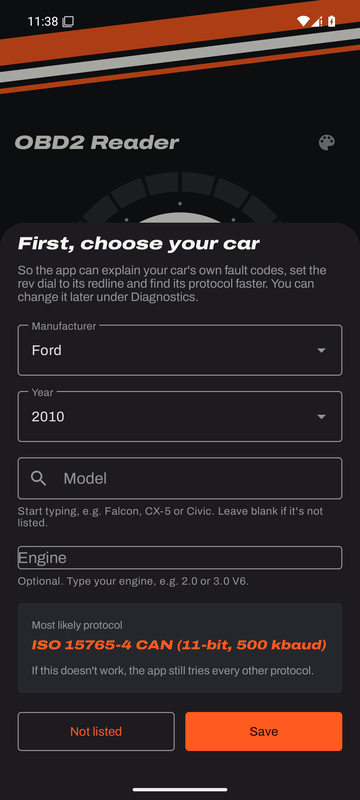
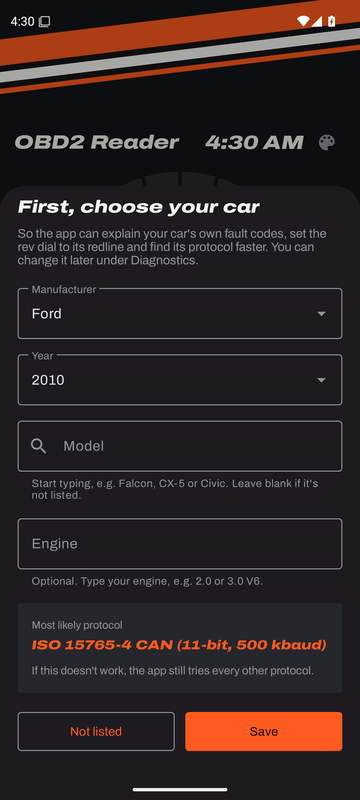
1.27.1: MIT licence, a shorter up-to-date README, fresh screenshots and demo
Also swaps a real VIN in the tests and install test for a sample one.

Claude-Session: https://claude.ai/code/session_01McjzTqeoTY42GN73YPdA2H

diff --git a/preview/index.html b/preview/index.html
@@ -3174,7 +3174,7 @@ setInterval(() => { $("noChargeBtn").hidden = $("ignBtn").hidden; if ($("ignBtn"
 
 /* ===== App updates (mirrors MainActivity.checkForUpdate and showChangesSince). The browser preview
    can't install an APK, so it is always on the latest release. ===== */
-const CHANGES = {"version": "1.27.0", "date": "3 November 2026", "text": "• Report a problem or suggest an improvement from the app. Two new rows under Diagnostics → Help open a short form on GitHub, with your app version and phone already filled in (and, for a problem, your car and adapter's name). Nothing is sent until you submit the form yourself, and your VIN, location and adapter log are never added to it."};
+const CHANGES = {"version": "1.27.1", "date": "3 November 2026", "text": "• OBD2 Reader is now open source under the MIT licence: you're free to use, change and share the code. The README has been rewritten to be shorter and up to date, with fresh screenshots."};
 (() => { const row = document.getElementById("updatesRow"), btn = document.getElementById("updatesCheck"); if (!row) return;
   btn.onclick = e => { e.stopPropagation(); toast("Checking for updates…"); setTimeout(() => toast(`You're on the latest version (${CHANGES.version}).`), 1200); };
   row.onclick = () => {

diff --git a/app/src/test/java/com/obdreader/app/obd/ElmParserTest.kt b/app/src/test/java/com/obdreader/app/obd/ElmParserTest.kt
@@ -132,11 +132,11 @@ class ElmParserTest {
         assertTrue(!VinDecoder.isValid("1HGCM82643A004352"))
         assertTrue(VinDecoder.isValid("JM0EP10A200123456")) // check digit optional outside North America
         assertTrue(!VinDecoder.isValid("JM0EP10A2O0123456"))
-        // Built for Australia in China: no check digit needed, and the X in position 9 is fine.
-        assertTrue(VinDecoder.isValid("LFACTZ5NX62000375"))
-        assertEquals("LFACTZ5NX62000375", VinDecoder.normalise(" lfactz5n x62000375 "))
-        assertEquals(null, VinDecoder.normalise("LFACTZ5NX6200037"))
-        assertEquals(null, VinDecoder.normalise("LFACTZ5NX6200O375"))
+        // Built outside North America (an L-prefixed sample): no check digit needed, and the X in position 9 is fine.
+        assertTrue(VinDecoder.isValid("LFASAMPLX00000001"))
+        assertEquals("LFASAMPLX00000001", VinDecoder.normalise(" lfasampl x00000001 "))
+        assertEquals(null, VinDecoder.normalise("LFASAMPLX0000000"))
+        assertEquals(null, VinDecoder.normalise("LFASAMPLX0000O001"))
     }
 
     @Test

diff --git a/app/src/test/java/com/obdreader/app/obd/ProtocolSearchTest.kt b/app/src/test/java/com/obdreader/app/obd/ProtocolSearchTest.kt
@@ -125,7 +125,7 @@ class EngineTest {
     @Test
     fun theRevDialFollowsTheCar() {
         fun rec(make: String, year: Int, model: String?, engine: String?) = VehicleCatalog.recommend(VehicleCatalog.Car(make, year, model, engine))
-        // George's Tribute: the 2.3 I4 revs to 6,500, so the dial ends at 7k, not 8k.
+        // A 2006 Tribute: the 2.3 I4 revs to 6,500, so the dial ends at 7k, not 8k.
         val tribute = rec("Mazda", 2006, "Tribute", "2.3 I4")
         assertEquals(6500, tribute.redline); assertTrue(tribute.redlineExact); assertEquals(7000, tribute.dialMax)
         assertEquals(7000, rec("Mazda", 2006, "Tribute", "2.3").dialMax)            // typed by hand

diff --git a/README.md b/README.md
@@ -1,214 +1,166 @@
 # OBD2 Reader
 
-An Android app that reads live engine data and trouble codes from a cheap ELM327 OBD2 adapter, over Bluetooth or Wi-Fi. It also has an Android Auto screen.
+A free Android app for cheap ELM327 OBD2 adapters. It shows live engine data, explains your trouble codes in plain English and scores your driving. It also works on Android Auto. No account, no ads, and it never changes anything in your car.
 
-**[Download the latest APK](https://github.com/CalmAussie/obd2-reader/releases/latest/download/OBD2Reader.apk)** · [All releases](https://github.com/CalmAussie/obd2-reader/releases) · [Changelog](CHANGELOG.md)
-
-## What it looks like
+**[Download the latest APK](https://github.com/CalmAussie/obd2-reader/releases/latest/download/OBD2Reader.apk)** · [Try the demo in your browser](https://raw.githack.com/CalmAussie/obd2-reader/main/preview/index.html) · [Changelog](CHANGELOG.md)
 
 <p align="center">
-  <img src="docs/demo.gif" width="300" alt="Animated demo: choosing the car first, the demo car connecting with start lights and a rev sweep, live readings gliding on the Dashboard, the driving score in its Everyday, Efficiency and Racing styles, the Race telemetry and Digital cockpit styles, the Graphs tab and trouble codes on the Diagnostics tab">
-</p>
-
-**[Try the interactive demo in your browser](https://raw.githack.com/CalmAussie/obd2-reader/main/preview/index.html)**: tap **Demo car**, switch styles with the palette button, and open **Android Auto** at the top to see the car screen. It's a web mock-up of the app, so nothing needs installing.
-
-The real app, version 1.4.2, running on Android 15 with the demo car:
-
-<p align="center">
-  <img src="docs/screen-choose-car.png" width="180" alt="First launch: choose your car">
-  <img src="docs/screen-dashboard.png" width="180" alt="Dashboard: the rev roundel, speed, coolant and fuel">
-  <img src="docs/screen-graphs.png" width="180" alt="Graphs: live charts of engine speed and road speed">
-  <img src="docs/screen-diagnostics.png" width="180" alt="Diagnostics: three trouble codes with a full explanation">
+  <img src="docs/demo.gif" width="300" alt="Animated demo: choosing the car, the demo car connecting, live readings on the Dashboard, switching between the Retro digital, Rally stage, Hairline, Race telemetry, Digital cockpit, Cyberpunk and British racing styles, the Graphs tab and trouble codes on the Diagnostics tab">
 </p>
 
 <p align="center">
-  <img src="docs/screen-android-auto.png" width="560" alt="Android Auto screen in the Asphalt style: engine speed in the rev roundel at the top centre, with speed, coolant, throttle, fuel and battery on angled decals">
+  <img src="docs/screen-dashboard.png" width="160" alt="Dashboard in the Asphalt style">
+  <img src="docs/screen-graphs.png" width="160" alt="Graphs: live charts">
+  <img src="docs/screen-diagnostics.png" width="160" alt="Diagnostics: trouble codes explained">
+  <img src="docs/screen-retro.png" width="160" alt="The Retro digital style">
+</p>
+
+<p align="center">
+  <img src="docs/screen-android-auto.png" width="520" alt="The Android Auto screen">
 </p>
 
 ## Install
-All you need is the APK. There's no Play Store listing, account, sign-in or other app to install, and it works offline.
 
-<img src="docs/download-qr.png" width="140" align="right" alt="QR code linking to the APK download">
+<img src="docs/download-qr.png" width="130" align="right" alt="QR code linking to the APK download">
 
-1. On your Android phone (Android 8 or newer), tap **[Download the latest APK](https://github.com/CalmAussie/obd2-reader/releases/latest/download/OBD2Reader.apk)**, or scan the QR code with the phone's camera.
-2. Open the downloaded file. If asked, allow your browser or file app to **install unknown apps**, then tap **Install**.
-3. If Google Play Protect warns about an unknown developer, tap **More details → Install anyway**. Every app from outside the Play Store gets this warning.
-4. Open OBD2 Reader and choose your car (or **Not listed**). Then tap **Demo car** to try it straight away, or plug in an adapter and tap **Connect**.
+You only need the APK. Nothing else to install, and it works offline. It runs on Android 8 or newer.
 
-**Updates:** the app checks GitHub for a new release once a day (and whenever you tap **Check for updates** under **Diagnostics → App updates**; tap the rest of that row to see what's changed since your version). When there is one, it shows what's new and, if you tap **Update**, downloads it and hands it to Android, which asks you to **Install**. The first time, Android asks you to allow OBD2 Reader to install apps. Your settings, drives and recordings are kept. Only the version check and the download go to GitHub. You can still install a newer APK over the old one by hand. **Samsung phones:** Auto Blocker (Settings › Security and privacy › Auto Blocker) blocks installs from anywhere but the Galaxy Store and Play Store, including the app's own updates. Turn it off to install or update, then turn it back on if you like.
+1. On your phone, tap **[Download the latest APK](https://github.com/CalmAussie/obd2-reader/releases/latest/download/OBD2Reader.apk)**, or scan the QR code.
+2. Open the file. If asked, allow **install unknown apps**, then tap **Install**.
+3. If Play Protect warns you, tap **More details → Install anyway**. Every app from outside the Play Store gets this warning.
 
-Every release is checked automatically: the published APK is downloaded, installed on fresh Android 10, 13, 15 and 16 phones (emulators), plus Android 17 as an experimental check (its emulator doesn't run reliably on GitHub yet), opened, run with the demo car and checked for crashes.
+**Updates:** the app checks for a new version once a day and installs it when you tap **Update**. Your settings and drives are kept.
+
+**Samsung phones:** Auto Blocker (**Settings → Security and privacy**) stops installs from outside the Galaxy Store and Play Store. Turn it off to install or update, then turn it back on if you like.
 
 ## Use it
+
 1. Plug the adapter into the OBD2 port (under the dashboard, driver's side) and turn the ignition on.
-2. Open the app, tap **Connect** and choose how your adapter connects:
-   - **Bluetooth:** the app lists paired and nearby adapters by name, whichever kind of Bluetooth they use (Classic or LE). If yours needs pairing, Android asks for the PIN, usually `1234` or `0000`.
-   - **Wi-Fi:** join the adapter's Wi-Fi network first. The usual address is `192.168.0.10`, port `35000`.
-3. No adapter? Tap **Demo car** to try the app with a simulated car.
-4. After the first time, the app reconnects by itself whenever you open it or turn the ignition on.
+2. Open the app and choose your car.
+3. Tap **Connect** and pick your adapter.
+   - **Bluetooth:** listed by name. If asked for a PIN, try `1234` or `0000`.
+   - **Wi-Fi:** join the adapter's network first (usually `192.168.0.10`, port `35000`).
+4. No adapter? Tap **Demo car**.
 
-Help, including Android Auto setup, is also inside the app under **Diagnostics → Help**.
+After the first time, it reconnects by itself. Help is also inside the app, under **Diagnostics → Help**.
 
-## What it does
-- **Live data:** RPM, speed, coolant, fuel, throttle, engine load, intake air, manifold pressure, MAF, timing advance, ambient and oil temperature, and battery voltage. Readings past their limit turn red.
-- **Battery charging status:** beside the voltage, an estimate (marked est.) of whether the battery is charging, worked out from voltage and engine speed. Standard OBD2 has no battery-current (amps) reading.
-- **Top speed:** the highest speed of the current drive shows beside the speed, on the phone and in Android Auto.
-- **Swipe between tabs:** swipe sideways across the screen to move between the Dashboard, Graphs and Diagnostics.
-- **Drive history:** every drive's summary (no location), with your drive score's trend over the last 20 drives; open any drive to share its card.
-- **Battery with the ignition off:** the battery's voltage and rough charge while the car is off (from the adapter, without waking the car), and an optional overnight check for something draining the battery.
-- **Battery check at start-up:** connect before starting the engine and the app measures how far the battery dips while starting, and keeps a history so a weakening battery shows up early.
-- **Trip summary:** distance, driving and idle time, average and top speed, best 0–100 and scores when each drive ends (when you disconnect, or the ignition has been off for 3 minutes).
-- **Driving alerts:** sound, vibration and a notification (on Android Auto too) for a hot engine or oil, or a battery not charging, overcharging or low. Switch off under **Diagnostics → Alerts**.
-- **New codes while you drive:** the trouble codes are checked every 30 seconds while connected, and a code that appears mid-drive arrives as a quiet notification (no sound, vibration or pop-up, on the phone or in Android Auto) that opens Diagnostics. Codes already there when you connect don't notify.
-- **Performance timers:** 0–100 km/h, 80–120 km/h and the quarter mile (an estimate, worked out from speed), or 0–60 and 50–70 mph, with your best times.
-- **Video overlay and drive cards:** turn a recorded drive into an MP4 gauge overlay for your video editor ([how to use it](#video-overlay)), with the route's mini-map when the drive was recorded with it, or a drive into a picture card for Shorts, TikTok, Reels or Instagram, drawn in the style of your Dashboard layout, with one score (your Racing score from Race telemetry, otherwise your drive score: the average of Everyday and Efficiency) and the route's outline when the drive was recorded with it, shaded brighter where you drove faster. You see a preview of the card before it's shared.
-- **Home-screen widget:** live speed, coolant and battery while connected; otherwise the last battery reading, code check and drive, with a Connect or Disconnect button. Resize it to 4 × 2, 4 × 1, 2 × 2 or 2 × 1, or upright to 1 × 2, 1 × 4 or 2 × 4, and choose up to three live readings for it under **Diagnostics → Widget readings** (the first is the one 2 × 1 shows; RPM shows in thousands, like 3.2k). Near your engine's redline or your car's top speed (an approximate published figure), that reading lights up in your style's second colour. It's drawn in the style you've chosen in the app (the palette icon on the Dashboard), so changing the style changes the widget too; with the light style, Pit lane, it turns dark while your phone is in dark mode.
-- **Your app icon:** choose the icon's colour from eight colourways under **Diagnostics → App icon**.
-- **Your readouts, your units:** choose which readings fill the Dashboard's main readouts, and km/h or mph and °C or °F separately.
-- **N/A, never a guess:** a reading the car doesn't report, or stops answering, says N/A rather than a dash or an old number.
-- **Your car first:** the app asks for your car's make, year, model and engine (engines are listed for every petrol, diesel and hybrid model in the catalogue) when you first open it, so manufacturer-specific trouble codes are explained for your brand, the rev dial is scaled to your engine's redline (the model's highest if you don't choose an engine), and your car's protocol is tried first. It then lists any readings that may not work on a car like yours, and why.
-- **Driving score:** rates the current drive out of 100 for **Efficiency**, **Everyday** driving or **Racing** (track days), with a score for each habit and a tip for what would help most.
-- **Graphs and drive logs:** live charts for up to four readings at once, in the order you choose, fast multi-reading polling, and CSV recording of whole drives (tap **Record drive** on the Dashboard once connected; recordings are under **Graphs → Saved drives**) that you can share to Excel or Google Sheets, optionally with your route (latitude and longitude on every row) for mapping software. Drives are only recorded when you tap **Record drive**, your location is only ever saved inside a drive you record with its route, and recordings are never included in backups.
-- **Same route as last time:** record the same journey again (same start, finish and roads, the same way round) and the drive's summary compares it with last time: time, average speed, idling and top speed, plus your drive score when both recordings covered the whole drive. It's worked out from the two recordings each time; nothing new is saved.
-- **Your location stays on your phone:** it's never sent to the developer or anyone else. It's only stored locally, in the CSV file of a drive you record with its route, and the app only uses it to draw the outline of that route on your share card and to spot when you've recorded the same route before. Shared drive cards carry only the outline's shape: no map, street names or coordinates. Positions come from your phone's own location service (GPS, plus the phone's motion sensors on Android 12 and newer), the same one maps apps use, so your phone's own Location settings apply as usual. Where GPS drops out at the very start or end of a drive (an underground car park, say), the outline is carried on by the distance the car's speed readings show, in the direction it was heading; it's an estimate, and the app has no maps.
-- **Trouble codes, explained:** reads stored and pending codes from the engine (and, on many cars, the automatic transmission). About 2,860 standard (generic) codes are explained: what it means, how urgent it is, symptoms, common causes and what to check. Manufacturer-specific codes say where to look them up for your make, except a few Ford and Lincoln codes, which use Ford's own definitions for the model years Ford's documents cover. [Which cars get which codes](docs/CODE-SUPPORT.md) lists every model in the car list. Save the lot as a report to your phone, or share it with your mechanic. When a code is stored, the car's **freeze frame** (the engine's readings at that moment) is shown with it and included in the report.
-- **Deeper checks (read-only):** under Diagnostics, **Readiness monitors** shows which of the engine computer's emission checks have finished (handy before an inspection) and its software version; **Self-test results** shows the measurements behind those checks, with their limits; **Codes from other modules** reads codes from the ABS, airbags, transmission, power steering, cluster and other modules, at the addresses your make uses, and can search every address for the rest; **Enhanced diagnostics** shows live readings your maker added beyond OBD2 where they're known (for example Ford transmission temperature and oil life; community-sourced, and only the ones your car answers) and every module's part numbers, software versions and stored VIN; **Custom readings** lets you add a reading by its request and formula. These need a CAN car (most from 2008, many earlier), except readiness and custom readings.
-- **Read-only:** the app never clears codes, turns off the check-engine light or changes anything in the car. Every command is checked before it's sent, and anything that isn't a read is blocked.
-- **Picture-in-picture (optional):** turn on **Picture-in-picture** under Reconnect automatically, and while connected, leaving the app keeps your widget readings in a small floating window over other apps; tap it for Disconnect.
-- **Reconnects by itself:** picks the adapter back up when you open the app, start Android Auto or turn the ignition back on.
-- **Readable adapter log:** every message to and from the adapter is explained in plain English (for example "Engine RPM: 3,176 rpm" under the raw reply), with the latest trouble codes and their definitions pinned at the top. Share it as a text file when troubleshooting.
-- **Vehicle ID:** reads the VIN and shows the make and model year. If the car's VIN doesn't match your VIN plate, enter the right one (kept on your phone only).
-- **Finds the right protocol:** tries every OBD2 protocol automatically. If your car won't connect, choose it under **Diagnostics → Your car** (69 makes from 2000 on) so the app tries that car's usual protocol first.
-- **Background connection:** keeps working with the screen off, with a notification showing live RPM, speed and coolant.
+## Features
 
-## Compatibility
+**On the road**
+- **Live data:** speed, revs, coolant, fuel, throttle, battery and more, gliding smoothly. Readings past their limit turn red.
+- **13 styles:** from racing liveries to an 80s digital dash. Every style works in landscape too.
+- **Android Auto:** your readings and trouble codes on the car's screen, drawn in your style.
+- **Picture-in-picture (optional):** keep your readings in a small window over other apps.
+- **Home-screen widget:** live readings while connected, the last drive and battery reading when not.
+- **Alerts:** a hot engine, a battery not charging, or a new trouble code mid-drive. New codes notify quietly.
 
-**Phones**
-| | |
-|---|---|
-| Android | 8.0 (Oreo) or newer |
-| Android Auto | Any car or head unit with Android Auto, wired or wireless, using the phone's Android Auto app |
-| iPhone | Not supported (Android only) |
+**After the drive**
+- **Driving score:** out of 100 for Efficiency, Everyday or Racing, with a tip on what would help most.
+- **Trip summary and history:** distance, times, top speed and your score's trend.
+- **Same route as last time:** drive a recorded route again and see how you compare.
+- **Record drives:** save them as CSV files for Excel or Google Sheets.
+- **Video overlay:** turn a recorded drive into a gauge video for your dash-cam footage ([how](#video-overlay)).
+- **Drive cards:** a picture of your drive for Shorts, TikTok, Reels or Instagram.
+- **Performance timers:** 0–100 km/h, 80–120 km/h and the quarter mile (or 0–60 mph and 50–70 mph).
 
-**Adapters**
-| Type | Works with | Notes |
-|---|---|---|
-| Bluetooth Classic | ELM327 v1.4 and newer, and ELM327-compatible clones and STN-based adapters | Listed under Bluetooth; the app pairs it if needed |
-| Bluetooth LE | "iPhone-compatible" ELM327 adapters, for example the Veepeak OBDCheck BLE+ | Listed under Bluetooth; no pairing needed |
-| Wi-Fi | ELM327 Wi-Fi adapters | Default address `192.168.0.10`, port `35000`, changeable in the app |
-| Maker-locked | ThinkCar ThinkDiag, BlueDriver and similar adapters made for their maker's own app | They work only if they answer like an ELM327. If not, the app tells you it's a maker-locked adapter |
-| Not supported | USB adapters | |
-
-**OBD2 protocols** (all nine an ELM327 supports, tried automatically)
-| Protocol | Typical cars |
-|---|---|
-| ISO 15765-4 CAN (11-bit and 29-bit, 500 and 250 kbaud) | Almost every car from 2008 on |
-| SAE J1850 PWM | 2000s Fords and Ford-based Mazdas |
-| SAE J1850 VPW | Pre-2008 GM, Chrysler, Dodge and Jeep |
-| ISO 9141-2 | 2000s Asian and European cars, including many Hondas, Mazdas and Toyotas |
-| ISO 14230-4 KWP2000 (fast and 5-baud init) | 2000s Asian and European cars |
-
-Many cheap ELM327 clones can't speak J1850 PWM or VPW. If you have a 2000s Ford or pre-2008 GM, Chrysler, Dodge or Jeep, use a genuine ELM327 or STN-based adapter.
-
-**Cars**
-| | |
-|---|---|
-| Australia | Petrol cars from about 2006, diesels from about 2007 (ADR 79). Many earlier imports also work |
-| United States | 1996 on |
-| Europe (EOBD) | Petrol from 2001, diesel from 2004 |
-| Car catalogue | 69 makes from 2000 on, to help the app pick the right protocol: Japanese, American, European and Australian brands |
-| Electric cars | Often limited or no standard engine readings. Teslas have no standard OBD2 port |
-| Japanese-market imports | Some older ones use Japan's own standard and may not connect |
-
-**What can be read:** standard (generic) OBD2 data: live engine readings, emissions-related trouble codes from the engine and, on many cars, the automatic transmission (about 2,860 generic P0, P2, P34, U0 and U3 codes are explained; the rest are named by system; manufacturer-specific codes are identified but, apart from a few Ford and Lincoln codes, not explained), and the VIN. When a car leaves out a reading, a close standard one is used where there is one, and labelled. **Diagnostics → Scan what your car reports** lists everything your car reports. **Diagnostics → Codes from other modules** reads codes from other modules such as ABS and airbags on CAN cars, at your make's own module addresses, and **Search every address** finds the rest; clearing them, and service resets, need the maker's own tools or a scanner made for your make.
-
-## Video overlay
-Turn a recorded drive into a video of your gauges (shift lights, rev arc, rpm, speed, top speed, throttle and a 30-second trace) to lay over dash-cam, GoPro or phone footage in a video editor.
-
-**Record the drive**
-1. Start your camera recording first.
-2. In OBD2 Reader, connect to the car and tap **Record drive** on the Dashboard (it appears once you're connected). The overlay's clock starts at 0:00 the moment you tap it, so film the phone as you tap (or say "now") to make lining up easy later.
-3. Drive, then tap **Stop recording**.
-
-**Make the video**
-1. On the **Graphs** tab, tap **Saved drives**, choose the drive, then **Make a video overlay**.
-2. Choose a background:
-   - **Green screen:** remove it in your editor with chroma key.
-   - **Black:** use your editor's **Screen** blend mode to drop the black.
-3. Choose a size: **1080p** (sharper) or **720p** (quicker to make). Then tap **Make video**.
-4. Keep the app open while it works; it shows the progress and roughly how long is left.
-5. The video is saved to **Movies › OBD2 Reader** on Android 10 and newer, where your editor can find it. On older phones, tap **Share** to send it to your editor, Drive or Files.
-
-**In your editor**
-1. Put your camera footage on the main track and the overlay on the track above it.
-2. Remove the background: chroma key on green (for example CapCut's **Chroma key**, Premiere Pro's **Ultra Key** or DaVinci Resolve's **3D Keyer**), or set the overlay's blend mode to **Screen** for black.
-3. Line the overlay up with your footage: slide it until its 0:00 sits on the moment you tapped **Record drive**.
-
-The overlay is 30 frames a second, 16:9, with the gauges along the bottom, so it fits over landscape footage. It uses the colours of the style you've chosen, and your units (km/h or mph).
+**Diagnostics**
+- **Trouble codes explained:** about 2,860 codes, with what they mean, how urgent they are and what to check.
+- **Freeze frame:** the engine's readings at the moment a code was stored.
+- **Code report:** save or share all your codes with your mechanic.
+- **Battery checks:** how far the battery dips when starting, and an optional overnight drain check.
+- **Deeper checks:** readiness monitors, self-test results, and codes from ABS, airbags and other modules (on CAN cars).
+- **VIN:** reads your car's VIN. You can enter the one on your plate if they differ.
 
 ## Styles
-Tap the palette icon on the Dashboard to choose a style. Your choice is saved. Every style also works in landscape: turn your phone sideways and the Dashboard puts the main dial on the left and the other readouts, Connect and status on the right. The first seven are colourways of the livery dashboard; the last six each have a dashboard layout of their own.
+
+Tap the palette button on the Dashboard. The first seven are colourways; the last six have layouts of their own.
 
 | Style | Look |
 |---|---|
-| Asphalt (default) | Orange and white livery stripes on dark grey |
+| Asphalt (default) | Orange and white stripes on dark grey |
 | Endurance | Night-race navy and yellow |
 | Kerb | Red and white kerb stripes |
-| Pit lane | A light style in black and red, for sunlight |
+| Pit lane | Light, in black and red. Best in sunlight |
 | Drift | Hot pink and teal |
-| Apex | Volt yellow on carbon black, sharply raked |
-| British racing | Cream and gold on British racing green |
-| Race telemetry | A data-logger screen: shift lights, big numbers and a live 30-second trace of engine speed, road speed and throttle |
-| Digital cockpit | One big speed in a glowing ring, on layered glass |
-| Cyberpunk | A neon heads-up display: a climbing rev bar, split-colour speed digits and glowing readouts |
-| Retro digital | An 80s digital dash in glowing teal: a stepped bar-graph rev counter, big glowing digits over their unlit "88", and segment-bar readouts |
-| Rally stage | Paper white, black and safety orange, like a co-driver's board: engine speed huge with the redline marked, chunky blocks and a strip of readings. Easy to read in sun |
-| Hairline | Fine lines on black, like a watch face: a hairline rev dial round one big, thin speed, and the readings as a quiet list |
+| Apex | Volt yellow on carbon black |
+| British racing | Cream and gold on racing green |
+| Race telemetry | Shift lights, big numbers and live traces |
+| Digital cockpit | One big speed in a glowing ring |
+| Cyberpunk | A neon heads-up display |
+| Retro digital | An 80s digital dash in glowing teal |
+| Rally stage | Paper white, black and orange. Easy to read in sun |
+| Hairline | Fine lines on black, like a watch face |
+
+<p align="center">
+  <img src="docs/screen-retro.png" width="160" alt="Retro digital">
+  <img src="docs/screen-rally.png" width="160" alt="Rally stage">
+  <img src="docs/screen-hairline.png" width="160" alt="Hairline">
+</p>
+
+## Compatibility
+
+**Adapters**
+| Type | Works? |
+|---|---|
+| Bluetooth ELM327 (v1.4 or newer, clones, STN-based) | Yes |
+| Bluetooth LE ("iPhone-compatible", e.g. Veepeak OBDCheck BLE+) | Yes |
+| Wi-Fi ELM327 | Yes |
+| Maker-locked (ThinkDiag, BlueDriver and similar) | Only if they answer like an ELM327 |
+| USB | No |
+
+**Cars**
+| Where | From |
+|---|---|
+| Australia | Petrol about 2006, diesel about 2007 |
+| United States | 1996 |
+| Europe | Petrol 2001, diesel 2004 |
+
+The app tries all nine OBD2 protocols for you. Many cheap clones can't talk to 2000s Fords or pre-2008 GM, Chrysler, Dodge or Jeep cars; use a genuine ELM327 or STN adapter for those. Electric cars give few or no standard readings. iPhones aren't supported.
+
+Cars only report some readings. Anything yours doesn't report shows **N/A**, never a guess. [Which cars get which codes](docs/CODE-SUPPORT.md) lists every model.
 
 ## Android Auto
-The car screen shows live RPM, speed, coolant, throttle, fuel and battery, refreshing about five times a second with each number gliding to the next reading, and lists trouble codes. Its tiles are drawn with your style's own dashboard pieces (the roundel and decals on the liveries, shift lights across the top and traces on Race telemetry, the speed ring on Digital cockpit, the heads-up display on Cyberpunk, the digital dash on Retro digital, the rev board on Rally stage, the watch-face dial on Hairline), and trouble codes show on your style's plates. Android Auto still sets the background, the grid and the names under each tile.
 
-Android Auto only shows Play Store apps until you allow others. On your phone:
+Android Auto only shows Play Store apps until you allow others:
+
 1. Open Android Auto's settings (search "Android Auto" in Settings).
-2. Scroll to the bottom and tap **Version** about 10 times, then confirm to turn on developer mode.
-3. Tap the three-dot menu, then **Developer settings**, and turn on **Unknown sources**.
-4. Reconnect to your car. OBD2 Reader appears in Android Auto's app list.
+2. Tap **Version** about 10 times to turn on developer mode.
+3. Open the three-dot menu → **Developer settings** → turn on **Unknown sources**.
+4. Reconnect to your car. OBD2 Reader is now in the app list.
 
-## Good to know
-- **Open, minimised and closed:** while the app is open on screen, your phone doesn't lock. Minimised (Home, or Back from the Dashboard), it keeps running: the connection stays up and a drive you're recording keeps recording. Swipe it away from Recents to close it: it saves any recording, disconnects and stops, unless Android Auto is showing it on the car screen.
-- **Not every reading on every car:** cars only answer the readings they support, so some readings say **N/A**. **Diagnostics → Scan what your car reports** shows what your car supports.
-- **Finding adapters on Android 11 and older** needs Location turned on while searching (an Android rule).
+## Video overlay
+
+1. Start your camera, then tap **Record drive** in the app. The overlay's 0:00 is the moment you tap.
+2. After the drive, go to **Graphs → Saved drives**, choose it and tap **Make a video overlay**.
+3. Choose a green or black background, and 1080p or 720p.
+4. In your editor, put the overlay above your footage. Key out the green (or use **Screen** blend for black) and line up 0:00.
+
+Videos are saved to **Movies → OBD2 Reader**.
+
+## Privacy and safety
+
+- **Read-only:** the app never clears codes or changes anything in your car. Anything that isn't a read is blocked.
+- **No account, no tracking:** nothing is sent to the developer. The only internet use is the update check, from GitHub.
+- **Your location stays on your phone:** it's only saved inside a drive you choose to record with its route.
 
 ## Feedback
-Found a problem or have an idea? In the app, **Diagnostics → Report a problem** or **Suggest an improvement** opens a short form here on GitHub with your app version and phone already filled in. You can also go straight to the forms: [report a problem](https://github.com/CalmAussie/obd2-reader/issues/new?template=bug_report.yml) or [suggest an improvement](https://github.com/CalmAussie/obd2-reader/issues/new?template=feature_request.yml). You need a free GitHub account to submit. Please leave out your VIN, number plate and anything else personal.
+
+Found a problem or have an idea? Use **Diagnostics → Report a problem** or **Suggest an improvement** in the app, or go straight to the forms: [report a problem](https://github.com/CalmAussie/obd2-reader/issues/new?template=bug_report.yml) · [suggest an improvement](https://github.com/CalmAussie/obd2-reader/issues/new?template=feature_request.yml). You need a free GitHub account. Please leave out your VIN and number plate.
 
 ## For developers
 
-**Building:** every push to `main` runs [`.github/workflows/build.yml`](.github/workflows/build.yml). It runs the unit tests, builds a signed APK and publishes it as a GitHub release. Pushes that only change Markdown files don't build a new release. To build locally, open the project in Android Studio (JDK 17) or run `gradle assembleRelease testDebugUnitTest` with Gradle 8.7 and the Android SDK.
+- **Build:** every push to `main` runs the unit tests, builds a signed APK and publishes a release. To build locally, use Android Studio (JDK 17) or `gradle assembleRelease` with Gradle 8.7.
+- **Release:** bump `obdVersion` in `gradle.properties` and add a [`CHANGELOG.md`](CHANGELOG.md) entry, which becomes the release notes.
+- **Install test:** each release is installed on Android 10, 13, 15 and 16 emulators (17 experimental), run with the demo car and checked for crashes.
+- **Preview:** [`preview/index.html`](preview/index.html) is a web mock-up of the app. Check changes in the real app too.
+- **Signing:** the key lives in repository secrets (`OBD_KEYSTORE_BASE64`, `OBD_KEYSTORE_PASSWORD`, `OBD_KEY_ALIAS`, `OBD_KEY_PASSWORD`). Never commit a keystore.
 
-**Preview:** [`preview/index.html`](preview/index.html) is an interactive mock-up of the app, with a demo car, every style, the Graphs and Diagnostics tabs and the Android Auto screen. Open it in a browser. It mirrors the app's layouts and logic but is a separate web page, so check changes in the app itself too.
+Code lives under `app/src/main/java/com/obdreader/app/`: `obd/` (adapters, parsing, codes, car data), `session/` (the shared connection, recording, alerts), `ui/` (styles and dashboard views), `car/` (Android Auto) and `MainActivity.kt` (the three tabs).
 
-**Install test:** [`.github/workflows/install-test.yml`](.github/workflows/install-test.yml) runs after every release. It installs the published APK on emulators (Android 10, 13, 15 and 16, plus 17 as an experimental job that doesn't fail a release), starts the demo car, visits every tab and fails on any crash. Screenshots and results are pushed to the `install-test-reports` branch.
+## Licence
 
-**QA:** push to the `qa` branch to run Android Lint, the unit tests and a build with compiler warnings, without publishing a release ([`.github/workflows/qa.yml`](.github/workflows/qa.yml)). The reports are committed back to `qa-reports/` on that branch.
+OBD2 Reader is open source under the [MIT licence](LICENSE).
 
-**Releasing:** bump `obdVersion` in `gradle.properties` and add an entry at the top of [`CHANGELOG.md`](CHANGELOG.md). The release notes are taken from that entry.
-
-**Signing:** updates only install over an older version when both are signed with the same key. The key lives in four repository secrets: `OBD_KEYSTORE_BASE64`, `OBD_KEYSTORE_PASSWORD`, `OBD_KEY_ALIAS` and `OBD_KEY_PASSWORD`. For local release builds, put the same values in an untracked `keystore.properties` file (`storeFile`, `storePassword`, `keyAlias`, `keyPassword`). Never commit the keystore.
-
-**Code layout** (under `app/src/main/java/com/obdreader/app/`):
-
-| Folder | What's in it |
-|---|---|
-| `obd/` | Adapter connections (Bluetooth, BLE, Wi-Fi, demo), the ELM327 client and parser, PIDs, protocols, trouble-code explanations, adapter-log translations, reconnect timing, the car catalogue and VIN decoder, plus the logic for trips, alerts, timers, units and car coverage |
-| `session/` | The shared connection used by the phone and the car, the background service, alerts, graph history, drive recording, the video overlay encoder and exports |
-| `ui/` | Styles and the custom views for each dashboard layout |
-| `car/` | The Android Auto screens |
-| `MainActivity.kt` | The Dashboard, Graphs and Diagnostics tabs, permissions and pickers |
-
-## Licences
-The app uses the [Archivo](https://fonts.google.com/specimen/Archivo) typeface under the SIL Open Font License ([`licenses/Archivo-OFL.txt`](licenses/Archivo-OFL.txt)).
-
-The widget's approximate top speeds are published figures from [autoevolution.com](https://www.autoevolution.com)'s specs (via the [automobile-models-and-specs](https://github.com/ilyasozkurt/automobile-models-and-specs) dataset), matched to the car list's engines.
-
-Generic trouble code names follow SAE J2012. They were cross-checked against the open lists in [python-OBD](https://github.com/brendan-w/python-OBD), [AndrOBD](https://github.com/fr3ts0n/AndrOBD) and the [Wal33D DTC database](https://github.com/Wal33D/dtc-database). Ford-specific definitions come from Ford's published *OBD System Operation Summary for Gasoline Engines* documents.
+- The [Archivo](https://fonts.google.com/specimen/Archivo) typeface is under the SIL Open Font License ([`licenses/Archivo-OFL.txt`](licenses/Archivo-OFL.txt)).
+- Approximate top speeds come from [autoevolution.com](https://www.autoevolution.com) via the [automobile-models-and-specs](https://github.com/ilyasozkurt/automobile-models-and-specs) dataset.
+- Trouble code names follow SAE J2012, cross-checked against [python-OBD](https://github.com/brendan-w/python-OBD), [AndrOBD](https://github.com/fr3ts0n/AndrOBD) and the [Wal33D DTC database](https://github.com/Wal33D/dtc-database). Ford definitions come from Ford's published *OBD System Operation Summary* documents.

diff --git a/CHANGELOG.md b/CHANGELOG.md
@@ -2,6 +2,9 @@
 
 Every change to OBD2 Reader, newest first. Each GitHub release shows the entry for its version.
 
+## 1.27.1 (3 November 2026)
+- **OBD2 Reader is now open source** under the MIT licence: you're free to use, change and share the code. The README has been rewritten to be shorter and up to date, with fresh screenshots.
+
 ## 1.27.0 (3 November 2026)
 - **Report a problem or suggest an improvement from the app.** Two new rows under **Diagnostics → Help** open a short form on GitHub, with your app version and phone already filled in (and, for a problem, your car and adapter's name). Nothing is sent until you submit the form yourself, and your VIN, location and adapter log are never added to it.
 
